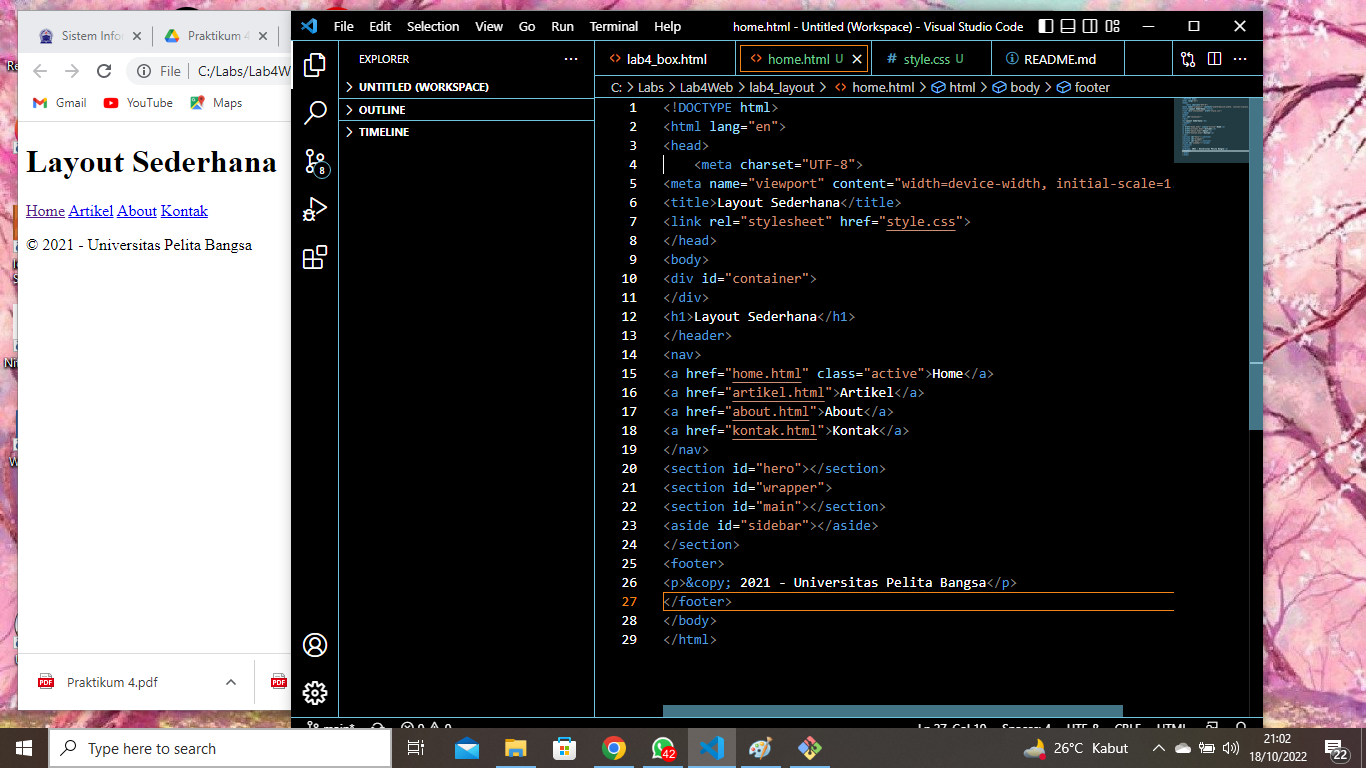
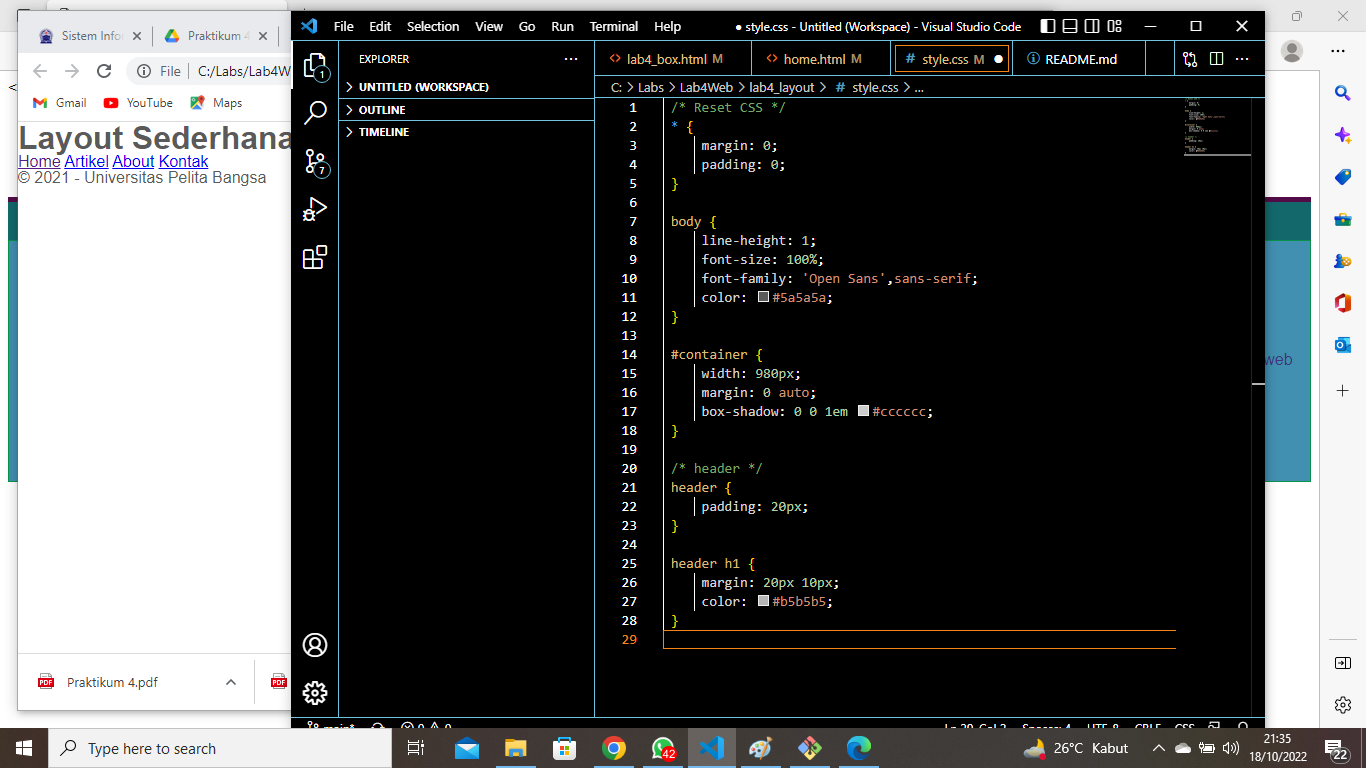
menambahkan file

diff --git a/lab4_layout/home.html b/lab4_layout/home.html
@@ -1,29 +1,98 @@
 <!DOCTYPE html>
 <html lang="en">
+
 <head>
     <meta charset="UTF-8">
-<meta name="viewport" content="width=device-width, initial-scale=1.0">
-<title>Layout Sederhana</title>
-<link rel="stylesheet" href="style.css">
+    <meta name="viewport" content="width=device-width, initial-scale=1.0">
+    <title>Layout Sederhana</title>
+    <link rel="stylesheet" href="style.css">
 </head>
 <body>
-<div id="container">
-</div>
-<h1>Layout Sederhana</h1>
-</header>
-<nav>
-<a href="home.html" class="active">Home</a>
-<a href="artikel.html">Artikel</a>
-<a href="about.html">About</a>
-<a href="kontak.html">Kontak</a>
-</nav>
-<section id="hero"></section>
-<section id="wrapper">
-<section id="main"></section>
-<aside id="sidebar"></aside>
-</section>
-<footer>
-<p>&copy; 2021 - Universitas Pelita Bangsa</p>
-</footer>
+    <div id="container">
+    </div>
+
+    <h1>Layout Sederhana</h1>
+    </header>
+    <nav>
+        <a href="home.html" class="active">Home</a>
+        <a href="artikel.html">Artikel</a>
+        <a href="about.html">About</a>
+        <a href="kontak.html">Kontak</a>
+    </nav>
+    <section id="hero">
+        <h1>Hello World!</h1>
+        <p>Lorem ipsum dolor sit amet, consectetur adipiscing elit. Vestibulum lorem
+        elit, iaculis innisl volutpat, malesuada tincidunt arcu. Proin in leo fringilla,
+        vestibulum mi porta, faucibus felis. Integer pharetra est nunc, nec pretium nunc
+        pretium ac.</p>
+        <a href="home.html" class="btn btn-large">Learn more &raquo;</a>
+    </section>
+    <section id="wrapper">
+        <section id="main"> <div class="row">
+            <div class="box">
+            <img src="https://dummyimage.com/120/db7d25/fff.png" alt=""
+            class="image-circle">
+            <h3>Heading</h3>
+            <p>Donec sed odio dui. Etiam porta sem malesuada magna mollis
+            euismod.</p>
+            <a href="#" class="btn btn-default">View detail</a>
+            </div>
+            <div class="box">
+            <img src="https://dummyimage.com/120/3e73e6/fff.png" alt=""
+            class="image-circle">
+            <h3>Heading</h3>
+            <p>Donec sed odio dui. Etiam porta sem malesuada magna mollis
+            euismod.</p>
+            <a href="#" class="btn btn-default">View detail</a>
+            </div>
+            <div class="box">
+            <img src="https://dummyimage.com/120/71e6d4/fff.png" alt=""
+            class="image-circle">
+            <h3>Heading</h3>
+            <p>Donec sed odio dui. Etiam porta sem malesuada magna mollis
+            euismod.</p>
+            <a href="#" class="btn btn-default">View detail</a>
+            </div>
+            </div></section>
+        <aside id="sidebar"> <div class="widget-box">
+            <h3 class="title">Widget Header</h3>
+            <ul>
+            <li><a href="#">Widget Link</a></li>
+            <li><a href="#">Widget Link</a></li>
+            <li><a href="#">Widget Link</a></li>
+            <li><a href="#">Widget Link</a></li>
+            <li><a href="#">Widget Link</a></li>
+            </ul>
+            </div>
+            <div class="widget-box">
+            <h3 class="title">Widget Text</h3>
+            <p>Vestibulum lorem elit, iaculis in nisl volutpat, malesuada tincidunt
+            arcu. Proin in leo fringilla, vestibulum mi porta, faucibus felis. Integer
+            pharetra est nunc, nec pretium nunc pretium ac.</p>
+            </div></aside>
+    </section>
+    <hr class="divider" />
+<article class="entry">
+<h2>First featurette heading.</h2>
+<img src="https://dummyimage.com/150/7b8a70/fff.png" alt="">
+<p>Lorem ipsum dolor sit amet, consectetur adipiscing elit. Vestibulum lorem
+elit, iaculis in nisl volutpat, malesuada tincidunt arcu. Proin in leo fringilla,
+vestibulum mi porta, faucibus felis. Integer pharetra est nunc, nec pretium nunc
+pretium ac.</p>
+</article>
+<hr class="divider" />
+<article class="entry">
+<h2>First featurette heading.</h2>
+<img src="https://dummyimage.com/150/7b8a70/fff.png" alt=""
+class="right-img">
+<p>Lorem ipsum dolor sit amet, consectetur adipiscing elit. Vestibulum lorem
+elit, iaculis in nisl volutpat, malesuada tincidunt arcu. Proin in leo fringilla,
+vestibulum mi porta, faucibus felis. Integer pharetra est nunc, nec pretium nunc
+pretium ac.</p>
+</article>
+    <footer>
+        <p>&copy; 2021 - Universitas Pelita Bangsa</p>
+    </footer>
 </body>
+
 </html>

diff --git a/lab4_layout/style.css b/lab4_layout/style.css
@@ -1,0 +1,182 @@
+ /* Reset CSS */
+ * {
+     margin: 0;
+     padding: 0;
+ }
+
+ body {
+     line-height: 1;
+     font-size: 100%;
+     font-family: 'Open Sans',sans-serif;
+     color: #5a5a5a;
+ }
+
+ #container {
+     width: 980px;
+     margin: 0 auto;
+     box-shadow: 0 0 1em #cccccc;
+ }
+
+ /* header */
+ header {
+     padding: 20px;
+ }
+
+ header h1 {
+     margin: 20px 10px;
+     color: #b5b5b5;
+ }
+
+ /* navigasi */
+nav {
+    display: block;
+    background-color: #1f5faa;
+    }
+    nav a {
+    padding: 15px 30px;
+    display: inline-block;
+    color: #ffffff;
+    font-size: 14px;
+    text-decoration: none;
+    font-weight: bold;
+    }
+    nav a.active,
+    nav a:hover {
+    background-color: #2b83ea;
+    }
+
+    /* Hero Panel */
+#hero {
+    background-color: #e4e4e5;
+    padding: 50px 20px;
+    margin-bottom: 20px;
+    }
+    #hero h1 {
+    margin-bottom: 20px;
+    font-size: 35px;
+    }
+    #hero p {
+    margin-bottom: 20px;
+    font-size: 18px;
+    line-height: 25px;
+    }
+    
+    /* main content */
+#wrapper {
+    margin: 0;
+    }
+    #main {
+        float: left;
+        width: 640px;
+        padding: 20px;
+        }
+        /* sidebar area */
+        #sidebar {
+        float: left;
+        width: 260px;
+        padding: 20px;
+        }
+
+        /* widget */
+.widget-box {
+    border:1px solid #eee;
+    margin-bottom:20px;
+    }
+    .widget-box .title {
+    padding:10px 16px;
+    background-color:#428bca;
+    color:#fff;
+    }
+    .widget-box ul {
+    list-style-type:none;
+    }
+    .widget-box li {
+    border-bottom:1px solid #eee;
+}
+.widget-box li a {
+padding:10px 16px;
+color:#333;
+display:block;
+text-decoration:none;
+}
+.widget-box li:hover a {
+background-color:#eee;
+}
+.widget-box p {
+padding:15px;
+line-height:25px;
+}
+
+/* footer */
+footer {
+    clear:both;
+    background-color:#1d1d1d;
+    padding:20px;
+    color:#eee;
+    }
+
+    /* box */
+.box {
+    display:block;
+    float:left;
+    width:33.333333%;
+    box-sizing:border-box;
+    -moz-box-sizing:border-box;
+    -webkit-box-sizing:border-box;
+    padding:0 10px;
+text-align:center;
+}
+.box h3 {
+margin: 15px 0;
+}
+.box p {
+line-height: 20px;
+font-size: 14px;
+margin-bottom: 15px;
+}
+box img {
+border: 0;
+vertical-align: middle;
+}
+.image-circle {
+border-radius: 50%;
+}
+.row {
+margin: 0 -10px;
+box-sizing: border-box;
+-moz-box-sizing: border-box;
+-webkit-box-sizing: border-box;
+}
+.row:after, .row:before,
+.entry:after, .entry:before {
+content:'';
+display:table;
+}
+.row:after,
+.entry:after {
+clear:both;
+}
+
+.divider {
+    border:0;
+    border-top:1px solid #eeeeee;
+    margin:40px 0;
+    }
+    /* entry */
+    .entry {
+    margin: 15px 0;
+    }
+    .entry h2 {
+    margin-bottom: 20px;}
+    .entry p {
+    line-height: 25px;
+    }
+    .entry img {
+    float: left;
+    border-radius: 5px;
+    margin-right: 15px;
+    }
+    .entry .right-img {
+    float: right;
+    }
+    

diff --git a/lab4_box.html b/lab4_box.html
@@ -1,39 +1,46 @@
 <!DOCTYPE html>
 <html lang="en">
+
 <head>
-<meta charset="UTF-8">
-<meta name="viewport" content="width=device-width, initial-scale=1.0">
-<title>Box Element</title>
-<style>
-    div {
-    float:left;
-    padding: 10px;
-    }
-    .div1 {
-    background: red;
-    }
-    .div2 {
-    background: yellow;
-    }
-    .div3 {
-    background: green;
-    }
-    .div4 {
-background-color: blue;
-clear: left;
-float: none;
-}
+    <meta charset="UTF-8">
+    <meta name="viewport" content="width=device-width, initial-scale=1.0">
+    <title>Box Element</title>
+    <style>
+        div {
+            float: left;
+            padding: 10px;
+        }
+
+        .div1 {
+            background: red;
+        }
+
+        .div2 {
+            background: yellow;
+        }
+
+        .div3 {
+            background: green;
+        }
+
+        .div4 {
+            background-color: blue;
+            clear: left;
+            float: none;
+        }
     </style>
 </head>
+
 <body>
-<header>
-<h1>Box Element</h1>
-</header>
-<section>
-    <div class="div1">Div 1</div>
-    <div class="div2">Div 2</div>
-    <div class="div3">Div 3</div>
-    <div class="div4">Div 4</div>
+    <header>
+        <h1>Box Element</h1>
+    </header>
+    <section>
+        <div class="div1">Div 1</div>
+        <div class="div2">Div 2</div>
+        <div class="div3">Div 3</div>
+        <div class="div4">Div 4</div>
     </section>
 </body>
+
 </html>
